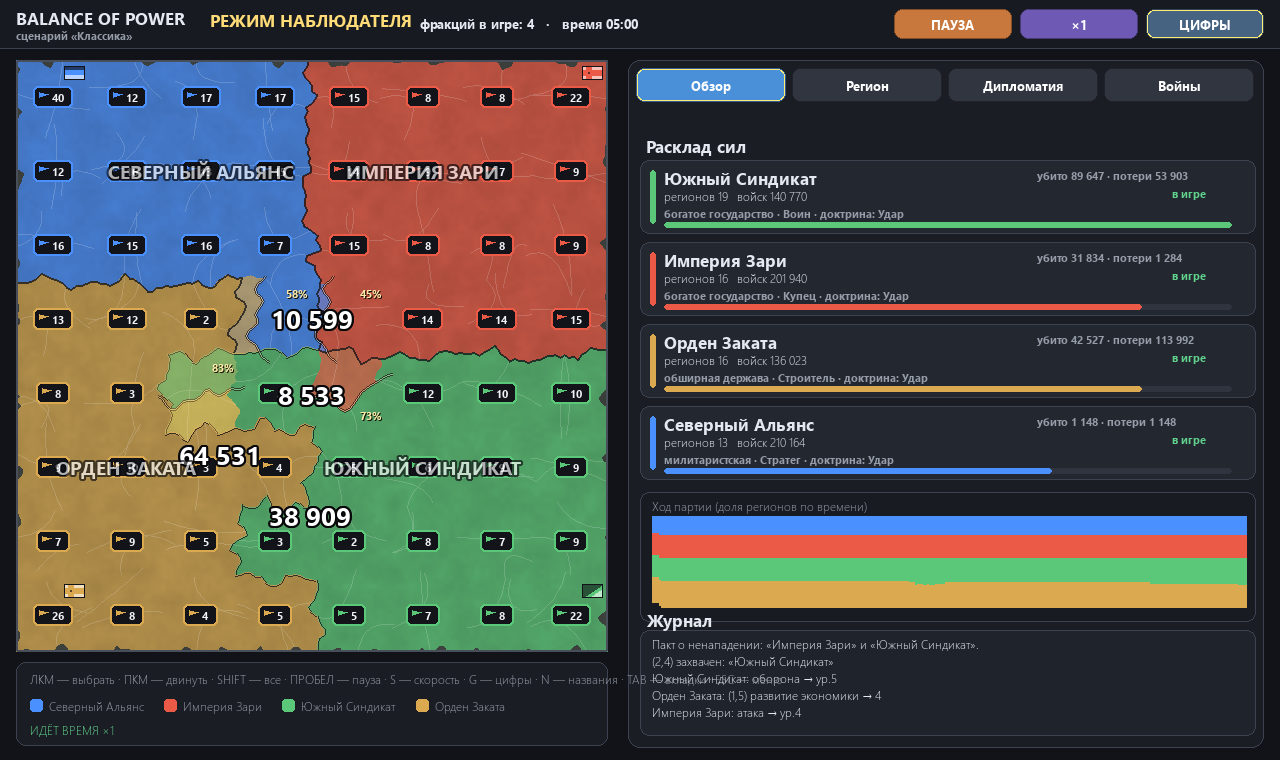
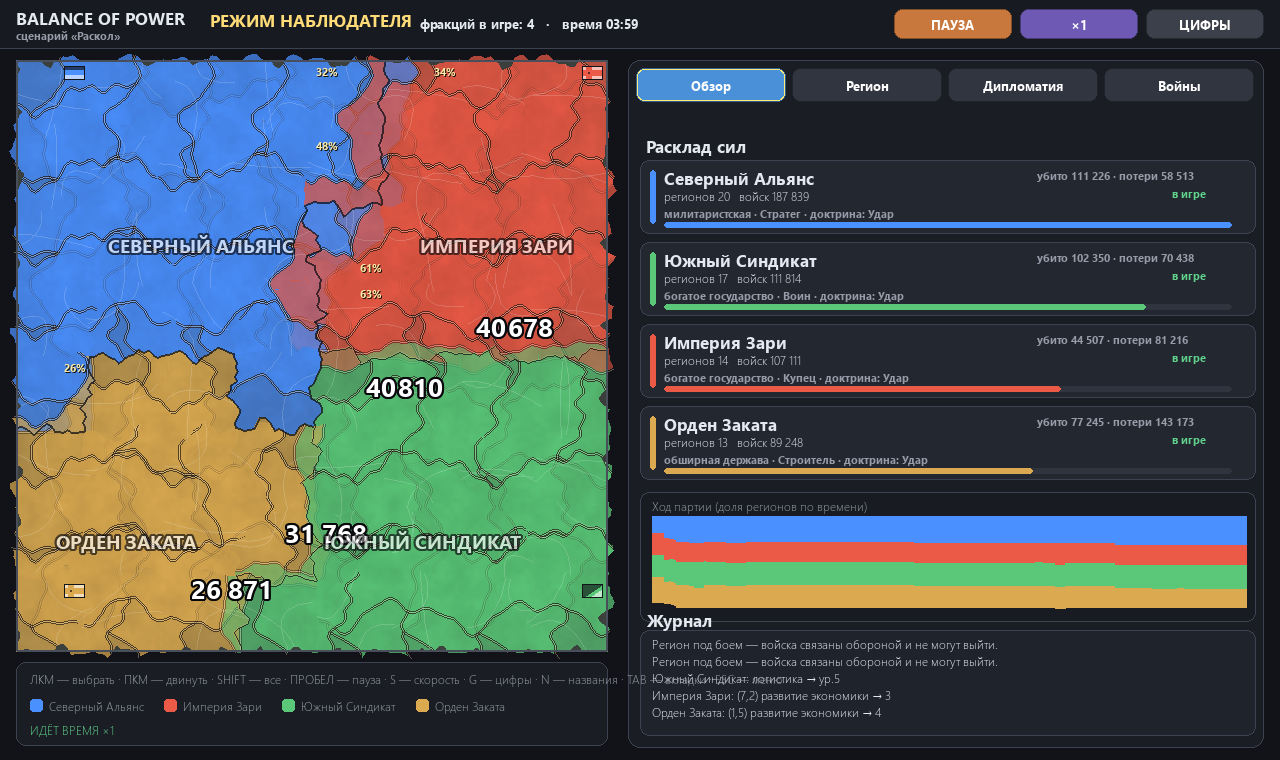
v2.2.2: «жидкая» граница войны на всём фронте
- Давление считается для каждого ребра между воюющими провинциями
  (доля сил противника в провинции), сглаживается во времени (кэш
  _edge_press на game) и гауссовым ядром вдоль всей линии фронта
- Полоса противника рисуется с ОБЕИХ сторон каждого ребра войны —
  фронт виден везде, глубина = базовая линия 10% + реальное давление
- Оккупация после мира: чужие войска в провинции дают полосу без войны
- Лопасти масштабируются от глубины полосы (у тонкой линии — мягче)
- Линия боя встроена в полосу (pass 5 удалён), проход 7 использует banded

diff --git a/strategy.py b/strategy.py
@@ -2303,9 +2303,10 @@ def split_line(d, frac, gx, gy):
         f0 = frac(u) if callable(frac) else frac
         lobe = sum(a * math.sin(6.283185 * u / (lam * TILE) + p)
                    for a, lam, p in comps)
-        # граница гуляет вокруг поля захвата не дальше ±0.3 тайла:
-        # лопасти читаются, но полоса не врёт о положении фронта
-        cov = min(min(0.95, f0 + 0.30), max(max(0.05, f0 - 0.30),
+        # у тонкой «линии войны» лопасти мягче, у глубокого захвата — во всю
+        # амплитуду; граница гуляет вокруг поля не дальше ±0.3 тайла
+        lobe *= 0.25 + 0.75 * min(1.0, f0 / 0.35)
+        cov = min(min(0.95, f0 + 0.30), max(max(0.04, f0 - 0.30),
                                             f0 + lobe))
         if d in ((1, 0), (-1, 0)):
             x = TILE * (1.0 - cov) if d == (1, 0) else TILE * cov
@@ -2456,90 +2457,141 @@ def draw_map(screen, game, fonts):
     if sel is not None and game.player is not None and game.regions[sel].owner == game.player:
         move_targets = set(neighbor_ids)
 
-    # ---- проход 1: провинции — полупрозрачный цвет страны поверх фона
-    #      с текстурой (как на примере); спорные — слоями в буфер ----
-    contested = []
-    splits = {}
+    # ---- проход 1: провинции — полупрозрачный цвет страны поверх фона ----
     fills = pygame.Surface((MAP_W, MAP_H), pygame.SRCALPHA)
     for r in game.regions:
         col = faction_color(game, r.owner)
-        owner_share, inv_fid, inv_share = game.control(r)
-        # «жидкое» перетекание: доля захвата догоняет реальную медленно и
-        # плавно — граница течёт, а не прыгает (draw ~60 к/с)
-        r.dshare += (inv_share - r.dshare) * 0.10
-        if inv_fid is not None and r.dshare > 0.02:
-            contested.append((r, col, inv_fid))
         # координаты полигонов абсолютные — приводим к локальным координатам
         # surface, иначе заливка уезжает относительно линий границ
         pygame.draw.polygon(fills, col + (195,),
                             [(px - MAP_X, py - MAP_Y) for px, py in region_poly(r.x, r.y)])
     screen.blit(fills, (MAP_X, MAP_Y))
 
-    occ = {r.rid: (r.dshare, game.attack_dir(r, inv_fid), inv_fid)
-           for r, col, inv_fid in contested}
+    # ---- «жидкая» граница войны: видна НА ВСЁМ фронте -------------------
+    # Для каждого ребра между воюющими провинциями берём давление (долю
+    # сил противника в провинции), сглаживаем его во времени и гауссовым
+    # ядром вдоль всей линии фронта (соседние линии ступенчатых фронтов
+    # подмешиваются слабее). Полоса противника рисуется С ОБЕИХ СТОРОН
+    # каждого ребра: весь фронт покрыт органичной «жидкой» линией, её
+    # глубина растёт там, где войска реально давят и захватывают.
+    banded = set()
 
-    # ---- поле захвата вдоль фронтов -------------------------------------
-    # Доля каждого приграничного региона становится точкой на оси фронта
-    # (ось — вдоль линии боя). Гауссово ядро размывает все точки фронта
-    # в гладкое поле: граница захвата — ОДНА кривая на весь фронт, которая
-    # учитывает проценты ВСЕХ приграничных провинций и течёт без ступенек.
-    # Соседние колонки/строки (ступенчатые фронты) подмешиваются слабее.
-    raw_pts = {}
-    for rid, (f0, d, inv) in occ.items():
-        r = game.regions[rid]
-        axis_h = d in ((1, 0), (-1, 0))          # атака с востока/запада
-        fixed = r.x if axis_h else r.y           # колонка/строка фронта
-        center = (r.y if axis_h else r.x) + 0.5  # положение вдоль фронта
-        sign = d[0] if axis_h else d[1]
-        key = (0 if axis_h else 1, fixed, sign, inv)
-        raw_pts.setdefault(key, []).append((center, f0))
-    front_pts = {}
-    for key, pts in raw_pts.items():
-        axis, fixed, sign, inv = key
-        merged = [(c, f, 1.0) for (c, f) in pts]
-        for df in (-1, 1):
-            for (c, f) in raw_pts.get((axis, fixed + df, sign, inv), ()):
-                merged.append((c, f, 0.35))
-        front_pts[key] = merged
+    def pair_press(tile, foe_fid):
+        """Доля сил foe_fid в tile против сил владельца (0..1)."""
+        own = tile.forces.get(tile.owner, 0.0)
+        foe = tile.forces.get(foe_fid, 0.0)
+        tot = own + foe
+        return min(1.0, foe / tot) if tot > 0.5 else 0.0
 
-    def frac_at(key, u):
-        """Доля захвата в точке u (глобальные пиксели) вдоль фронта."""
-        samples = front_pts.get(key)
-        if not samples:
-            return None
-        sigma = 1.25 * TILE
-        num = den = 0.0
-        near_f, near_d2 = None, None
-        for (c_tile, f, w) in samples:
-            d2 = (u - c_tile * TILE) ** 2
-            wg = w * math.exp(-d2 / (2.0 * sigma * sigma))
-            num += f * wg
-            den += wg
-            if near_d2 is None or d2 < near_d2:
-                near_d2, near_f = d2, f
-        if den < 1e-9:
-            return near_f
-        return num / den
-
-    for r, col, inv_fid in contested:
-        b = region_bbox(r.x, r.y)
-        ox, oy = MAP_X + r.x * TILE, MAP_Y + r.y * TILE
-        frac, d, _ = occ[r.rid]
-        axis_h = d in ((1, 0), (-1, 0))
-        key = (0 if axis_h else 1,
-               r.x if axis_h else r.y,
-               d[0] if axis_h else d[1], inv_fid)
-        def _f(u, k=key, own_v=frac):
-            v = frac_at(k, u)
-            return own_v if v is None else v
-        pts = split_line(d, _f, r.x, r.y)
-        splits[r.rid] = (pts, d, ox, oy)
-        # полоса оккупанта — полупрозрачный цвет захватчика поверх заливки
+    def draw_band(tile, foe_col, d, cov):
+        """Полоса цвета foe_col в tile со стороны d + линия раздела."""
+        b = region_bbox(tile.x, tile.y)
+        ox, oy = MAP_X + tile.x * TILE, MAP_Y + tile.y * TILE
+        pts = split_line(d, cov, tile.x, tile.y)
         surf = pygame.Surface((b.w, b.h), pygame.SRCALPHA)
         band = [(px + ox - b.x, py + oy - b.y) for px, py in band_poly(d, pts)]
-        pygame.draw.polygon(surf, faction_color(game, inv_fid) + (180,), band)
-        surf.blit(region_mask(r.x, r.y), (0, 0), special_flags=pygame.BLEND_RGBA_MULT)
+        strong = cov > 0.2
+        pygame.draw.polygon(surf, foe_col + (185 if strong else 150,), band)
+        mp = [(px + ox - b.x, py + oy - b.y) for px, py in pts]
+        pygame.draw.lines(surf, (28, 16, 10, 170 if strong else 110),
+                          False, mp, 3)
+        pygame.draw.lines(surf, (255, 244, 220, 80), False, mp, 1)
+        surf.blit(region_mask(tile.x, tile.y), (0, 0),
+                  special_flags=pygame.BLEND_RGBA_MULT)
         screen.blit(surf, (b.x, b.y))
+        banded.add(tile.rid)
+
+    # давление на каждом ребре войны (+ плавное течение во времени)
+    epc = getattr(game, "_edge_press", None)
+    if epc is None:
+        epc = game._edge_press = {}
+    raw = {}
+    seen_edges = set()
+    for r in game.regions:
+        for n in game.neighbors(r):
+            ek = (min(r.rid, n.rid), max(r.rid, n.rid))
+            if ek in seen_edges:
+                continue
+            war = game.at_war(r.owner, n.owner)
+            if not war:
+                # оккупация без войны (войска застряли после мира) —
+                # полоса нужна, если чужие силы реально стоят в провинции
+                if pair_press(r, n.owner) <= 0.02 and pair_press(n, r.owner) <= 0.02:
+                    continue
+            seen_edges.add(ek)
+            pair = (min(r.owner, n.owner), max(r.owner, n.owner))
+            if n.y == r.y:                       # граница вертикальная
+                axis, line = "v", max(r.x, n.x)
+                u = r.y + 0.5
+                west, east = (r, n) if r.x < n.x else (n, r)
+                pw = pair_press(west, east.owner)     # восток давит в запад
+                pe = pair_press(east, west.owner)     # запад давит в восток
+            else:                                # граница горизонтальная
+                axis, line = "h", max(r.y, n.y)
+                u = r.x + 0.5
+                north, south = (r, n) if r.y < n.y else (n, r)
+                pw = pair_press(north, south.owner)   # юг давит в север
+                pe = pair_press(south, north.owner)   # север давит в юг
+            old = epc.get(ek)
+            if old is None:
+                epc[ek] = (pw, pe)
+            else:
+                epc[ek] = (old[0] + (pw - old[0]) * 0.10,
+                           old[1] + (pe - old[1]) * 0.10)
+            pw, pe = epc[ek]
+            raw.setdefault((axis, line, pair), []).append(
+                (u, pw, pe, r, n, war))
+
+    # гауссово поле давления вдоль всей линии фронта
+    front = {}
+    for key, samples in raw.items():
+        axis, line, pair = key
+        ws = [(u, w, 1.0) for (u, w, e, r, n, war) in samples]
+        es = [(u, e, 1.0) for (u, w, e, r, n, war) in samples]
+        for dl in (-1, 1):
+            for (u2, w2, e2, r2, n2, wm) in raw.get((axis, line + dl, pair), ()):
+                ws.append((u2, w2, 0.35))
+                es.append((u2, e2, 0.35))
+        front[key] = (ws, es)
+
+    def field_at(samples, u):
+        if not samples:
+            return 0.0
+        sigma = 1.25 * TILE
+        num = den = 0.0
+        for (c, f, w) in samples:
+            wg = w * math.exp(-((u - c * TILE) ** 2) / (2.0 * sigma * sigma))
+            num += f * wg
+            den += wg
+        return num / den if den > 1e-9 else 0.0
+
+    FLOOR = 0.10         # базовая «линия войны» — видна на всём фронте
+    for key, samples in raw.items():
+        axis, line, pair = key
+        fw, fe = front[key]
+        for (u, pw, pe, r, n, war) in samples:
+            if axis == "v":
+                west, east = (r, n) if r.x < n.x else (n, r)
+                cov_w = field_at(fw, u)
+                cov_e = field_at(fe, u)
+                if war:      # на войне фронт виден везде — базовая линия
+                    cov_w = FLOOR + (1.0 - FLOOR) * cov_w
+                    cov_e = FLOOR + (1.0 - FLOOR) * cov_e
+                elif cov_w < 0.045 and cov_e < 0.045:
+                    continue
+                draw_band(west, faction_color(game, east.owner), (1, 0), cov_w)
+                draw_band(east, faction_color(game, west.owner), (-1, 0), cov_e)
+            else:
+                north, south = (r, n) if r.y < n.y else (n, r)
+                cov_n = field_at(fw, u)
+                cov_s = field_at(fe, u)
+                if war:
+                    cov_n = FLOOR + (1.0 - FLOOR) * cov_n
+                    cov_s = FLOOR + (1.0 - FLOOR) * cov_s
+                elif cov_n < 0.045 and cov_s < 0.045:
+                    continue
+                draw_band(north, faction_color(game, south.owner), (0, 1), cov_n)
+                draw_band(south, faction_color(game, north.owner), (0, -1), cov_s)
 
     # ---- проход 2: тонкие внутренние линии (как на примере) ----
     ls = pygame.Surface((MAP_W, MAP_H), pygame.SRCALPHA)
@@ -2570,15 +2622,6 @@ def draw_map(screen, game, fonts):
             if hot:
                 pygame.draw.lines(fx, (255, 190, 120, 60), False, mp, 1)
     screen.blit(fx, (MAP_X, MAP_Y))
-
-    # ---- проход 5: линия боя внутри провинции (спокойная, статичная) ----
-    fxs = pygame.Surface((MAP_W, MAP_H), pygame.SRCALPHA)
-    for r, col, inv_fid in contested:
-        pts, d, ox, oy = splits[r.rid]
-        mp = [(ox + px - MAP_X, oy + py - MAP_Y) for px, py in pts]
-        pygame.draw.lines(fxs, (28, 16, 10, 170), False, mp, 3)
-        pygame.draw.lines(fxs, (255, 244, 220, 80), False, mp, 1)
-    screen.blit(fxs, (MAP_X, MAP_Y))
 
     # ---- проход 6: вспышки боя ----
     for r in game.regions:
@@ -2639,7 +2682,7 @@ def draw_map(screen, game, fonts):
             draw_flag(screen, x + TILE - 26, y + 6, 14,
                       game.factions.get(r.owner))
         owner_share, inv_fid, inv_share = game.control(r)
-        if r.rid not in splits:
+        if r.rid not in banded:
             present = [(v, f) for f, v in r.forces.items() if v > 0.5]
             # цифры войск — только у выбранного региона и его соседей (G — все)
             if game.show_numbers or r.rid == sel or r.rid in neighbor_ids:

diff --git a/version.py b/version.py
@@ -2,7 +2,7 @@
 import json
 import urllib.request
 
-VERSION = "2.2.1"
+VERSION = "2.2.2"
 GAME_TITLE = "BALANCE OF POWER"
 # Строка авторства: внизу главного меню и на экране выбора фракции.
 CREDIT = "Goodfly256 + ZCode (GLM 5.3 Flash)"
@@ -13,6 +13,16 @@ CREDIT = "Goodfly256 + ZCode (GLM 5.3 Flash)"
 UPDATE_URL = "https://raw.githubusercontent.com/Goodfly256-2/balance-of-power/master/version.json"
 
 CHANGELOG = [
+    ("2.2.2", "2026-11-06", [
+        "«Жидкая» граница войны теперь на ВСЁМ фронте: давление считается "
+        "для каждого ребра между воюющими провинциями, сглаживается во "
+        "времени и гауссовым ядром вдоль всей линии фронта — полоса "
+        "захватчика рисуется с обеих сторон каждой границы войны",
+        "Базовая «линия войны» (10%) видна даже там, где ещё никто не "
+        "наступает; глубина растёт с реальным давлением и захватом",
+        "Оккупация после мира тоже рисуется: чужие войска в провинции — "
+        "полоса, даже если война закончилась",
+    ]),
     ("2.2.1", "2026-11-01", [
         "Граница захвата — одна гладкая кривая на ВЕСЬ фронт: доля каждого "
         "приграничного региона размывается гауссовым ядром по оси фронта в "

diff --git a/CHANGELOG.md b/CHANGELOG.md
@@ -2,6 +2,17 @@
 
 Авторство: Goodfly256 + ZCode (GLM 5.3 Flash)
 
+## 2.2.2 — 2026-11-06
+
+- **«Жидкая» граница войны на всём фронте**: давление считается для каждого
+  ребра между воюющими провинциями, сглаживается во времени и гауссовым
+  ядром вдоль всей линии фронта — полоса противника рисуется с обеих сторон
+  каждой границы войны
+- Базовая «линия войны» (10%) видна даже там, где ещё никто не наступает;
+  глубина растёт с реальным давлением и захватом
+- Оккупация после мира тоже рисуется: чужие войска в провинции — полоса,
+  даже если война закончилась
+
 ## 2.2.1 — 2026-11-01
 
 - **Граница захвата — одна гладкая кривая на весь фронт**: доля каждого
